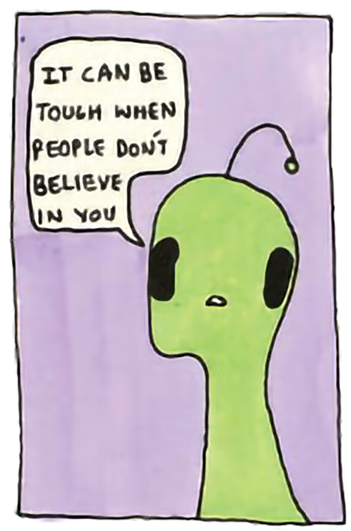
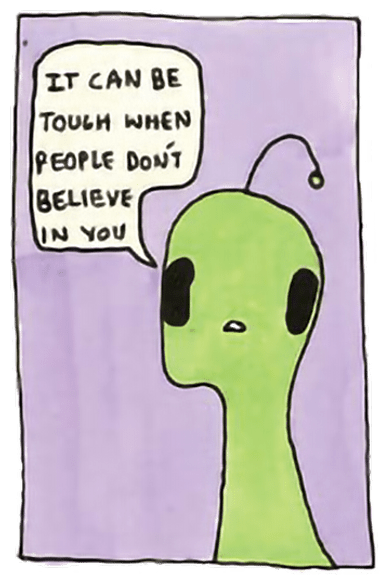
fix-updated images ratios for slide 9 to better fit without being pixelated

diff --git a/comic-9-i-believe.html b/comic-9-i-believe.html
@@ -22,7 +22,7 @@ twice but the final effect is worth it in my opinion-->
   <div class="container-fluid">
     <!-- The page needed some space at the top of the screen on bigger sizes
 that's the only reason this row exists-->
-    <div class="row d-none d-xl-block">
+    <div class="row d-none d-md-block">
       <div class="col-12 spacer"></div>
     </div>
     <div class="row">
@@ -36,44 +36,44 @@ that's the only reason this row exists-->
       <div class="d-md-none col-12" id="comic-title">
         <h3>I believe</h3>
       </div>
-      <!-- spacer for the xl screens only -->
-      <div class="d-none d-xl-block col-xl-1"></div>
-      <div class="col-12 col-md-8 col-xl-2">
+      <!-- spacer for the md screens only -->
+      <div class="d-none d-md-block col-md-1"></div>
+      <div class="col-12 col-md-2">
         <img class="fit-low-res-9 slide9-1 mx-auto d-block" src="assets/images/site-images/comics/9slide1.png" 
         alt="an alien is looking directly at you it says, it can be tough when people don't believe in you"
         aria-describedby="an alien is looking directly at you it says, it can be tough when people don't believe in you">
       </div>
-      <div class="d-none d-md-block col-md-2 d-xl-none" id="comic-title">
+      <div class="d-none d-md-block col-md-2 d-md-none" id="comic-title">
         <h3>I believe</h3>
       </div>
-      <!-- These are on seperate lines on every screen size apart from XL 
+      <!-- These are on seperate lines on every screen size apart from md 
 (laptop size) or bigger screens -->
-      <div class="col-md-2 d-xl-none"></div>
-      <div class="col-12 col-md-8 col-xl-2">
+      <div class="col-md-2 d-md-none"></div>
+      <div class="col-12 col-md-2">
         <img class="fit-low-res-9 slide9-2 mx-auto d-block" src="assets/images/site-images/comics/9slide2.png" 
         alt="the alien continues to look blankly directly at you in silence"
         aria-describedby="the alien continues to look blankly directly at you in silence">
       </div>
-      <div class="d-none d-xl-block col-xl-2">
-        <img class="fit-low-res-9 slide9-3 mx-auto d-block" src="assets/images/site-images/comics/9slide3.png" 
+      <div class="d-none d-md-block col-md-2">
+        <img class="fit-low-res-9 slide9-3 mx-auto" src="assets/images/site-images/comics/9slide3.png" 
         alt="the alien begins to smile and says, but that doesn't mean that you don't exist"
         aria-describedby="the alien begins to smile and says, but that doesn't mean that you don't exist">
       </div>
-      <!-- spacer for the xl screens only -->
-      <div class="d-none d-xl-block col-xl-1"></div>
-      <div class="d-none d-xl-block col-xl-2" id="comic-title">
+      <!-- spacer for the md screens only -->
+      <div class="d-none d-md-block col-md-1"></div>
+      <div class="d-none d-md-block col-md-2" id="comic-title">
         <h3>I believe</h3>
       </div>
-      <div class="col-2 d-xl-none"></div>
+      <div class="col-2 d-md-none"></div>
     </div>
 
     <div class="row align-bottom">
-      <div class="col-2 d-xl-none"></div>
-      <div class="col-12 col-md-8 col-xl-2 d-xl-none">
+      <div class="col-2 d-md-none"></div>
+      <div class="col-12 col-md-2 d-md-none">
         <img class="fit-low-res-9 mx-auto d-block" src="assets/images/site-images/comics/9slide3.png" alt="">
       </div>
-      <div class="col-2 d-xl-none"></div>
-      <!-- These are on seperate lines on every screen size apart from XL 
+      <div class="col-2 d-md-none"></div>
+      <!-- These are on seperate lines on every screen size apart from md 
 (laptop size) or bigger screens -->
       <div class="d-none d-md-block col-md-2">
         <a href="comic-8-tree-expectations.html">
@@ -81,7 +81,7 @@ that's the only reason this row exists-->
             alt="a link to go to the previous comic in the series" aria-describedby="a link to go to the previous comic in the series">
         </a>
       </div>
-      <div class="col-12 col-md-8 col-xl-8">
+      <div class="col-12 col-md-8">
         <img class="fit" src="assets/images/site-images/comics/9slide4.png" 
         alt="the alien steps back and holds it's hands up either side of it and says while smiling at you remember to believe in yourself"
         aria-describedby="the alien steps back and holds it's hands up either side of it and says while smiling at you remember to believe in yourself">

diff --git a/assets/css/style.css b/assets/css/style.css
@@ -208,11 +208,11 @@ a>i{
     width:100%;
 }
 .fit-low-res-9{
-    width:50%;  
+    width:80%;  
 }
 .slide9-3{
-    padding-right:10%;
-    padding-left:10%;
+    padding-right:8%;
+    padding-left:8%;
 }
 .slide9-2{
     padding-right:3%;
@@ -255,10 +255,6 @@ perfectionist... */
     }
     .slider-container-more img{
         margin-right:0;        
-    }
-    /* fix for big screens on comic-9*/
-    .fit-low-res-9{
-        width:100%;  
     }
 }
 @media screen and (min-width:2000px){
@@ -308,17 +304,9 @@ perfectionist... */
         width:70vw;
         margin-left:5vw;
     }
-    .slide9-3{
-        padding-right:0;
-        padding-left:0;
-    }
-    .slide9-2{
-        padding-right:0;
-        padding-left:0;
-    }
-    .slide9-1{
-        padding-right:0;
-        padding-left:0;
+    /* comic page 9 i believe */
+    .fit-low-res-9{
+        width:75%;  
     }
 }
 @media screen and (max-width: 480px){
@@ -343,5 +331,9 @@ perfectionist... */
     .social-links{
         width:100%;
         margin-left:0;
+    }
+    /* comic page 9 i believe */
+    .fit-low-res-9{
+        width:80%;  
     }
 }
